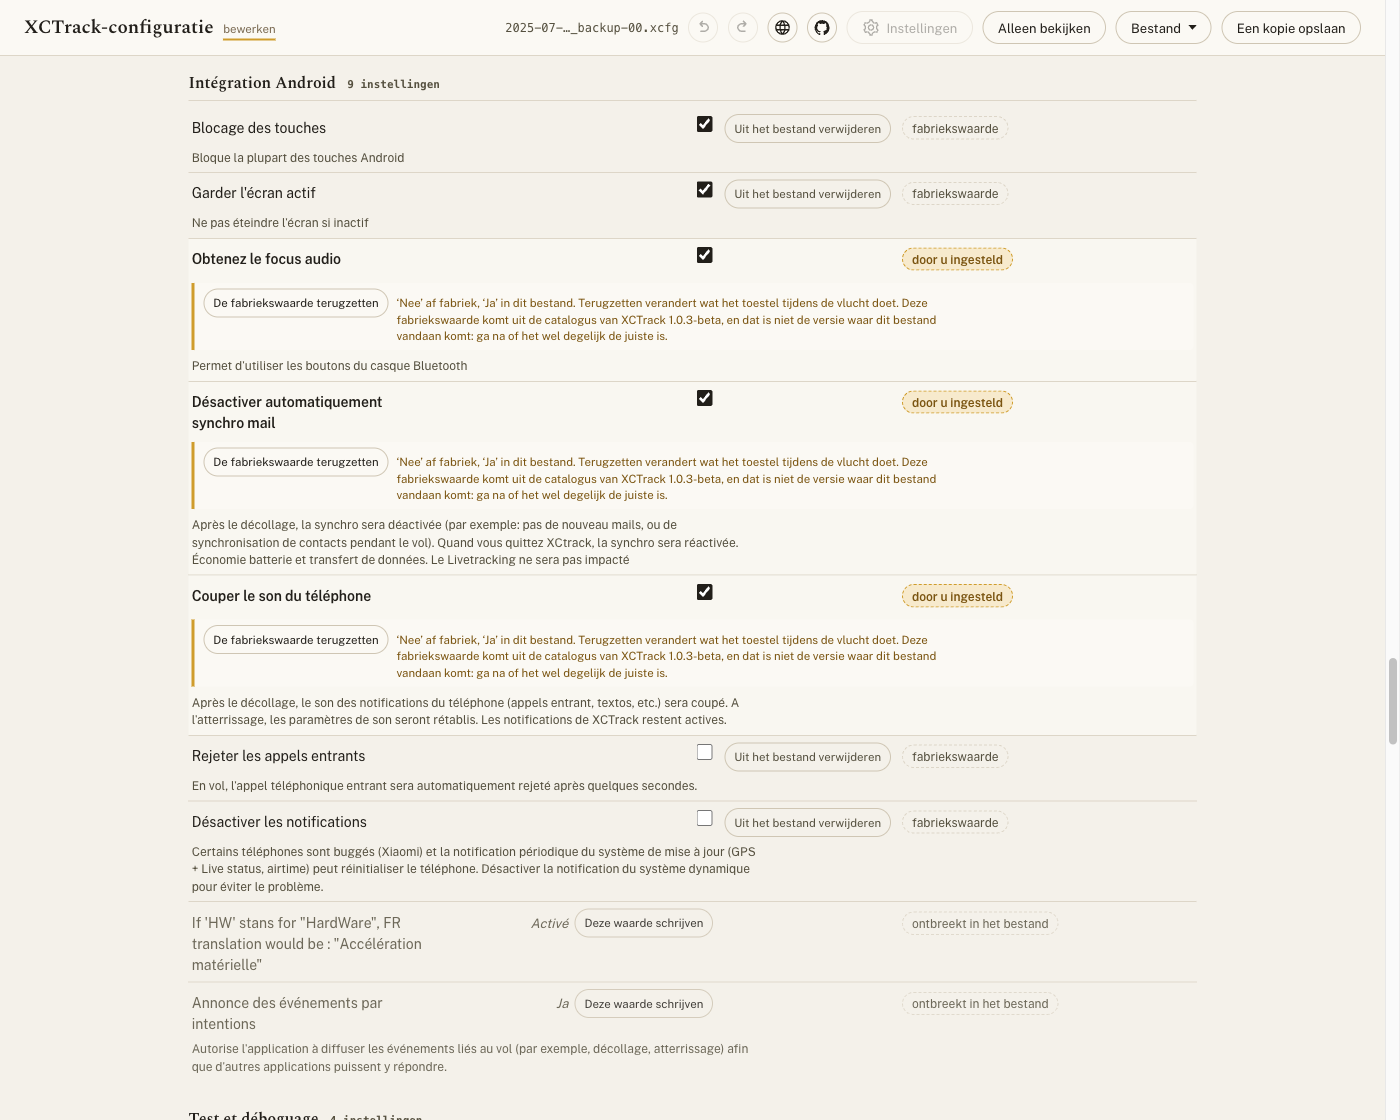
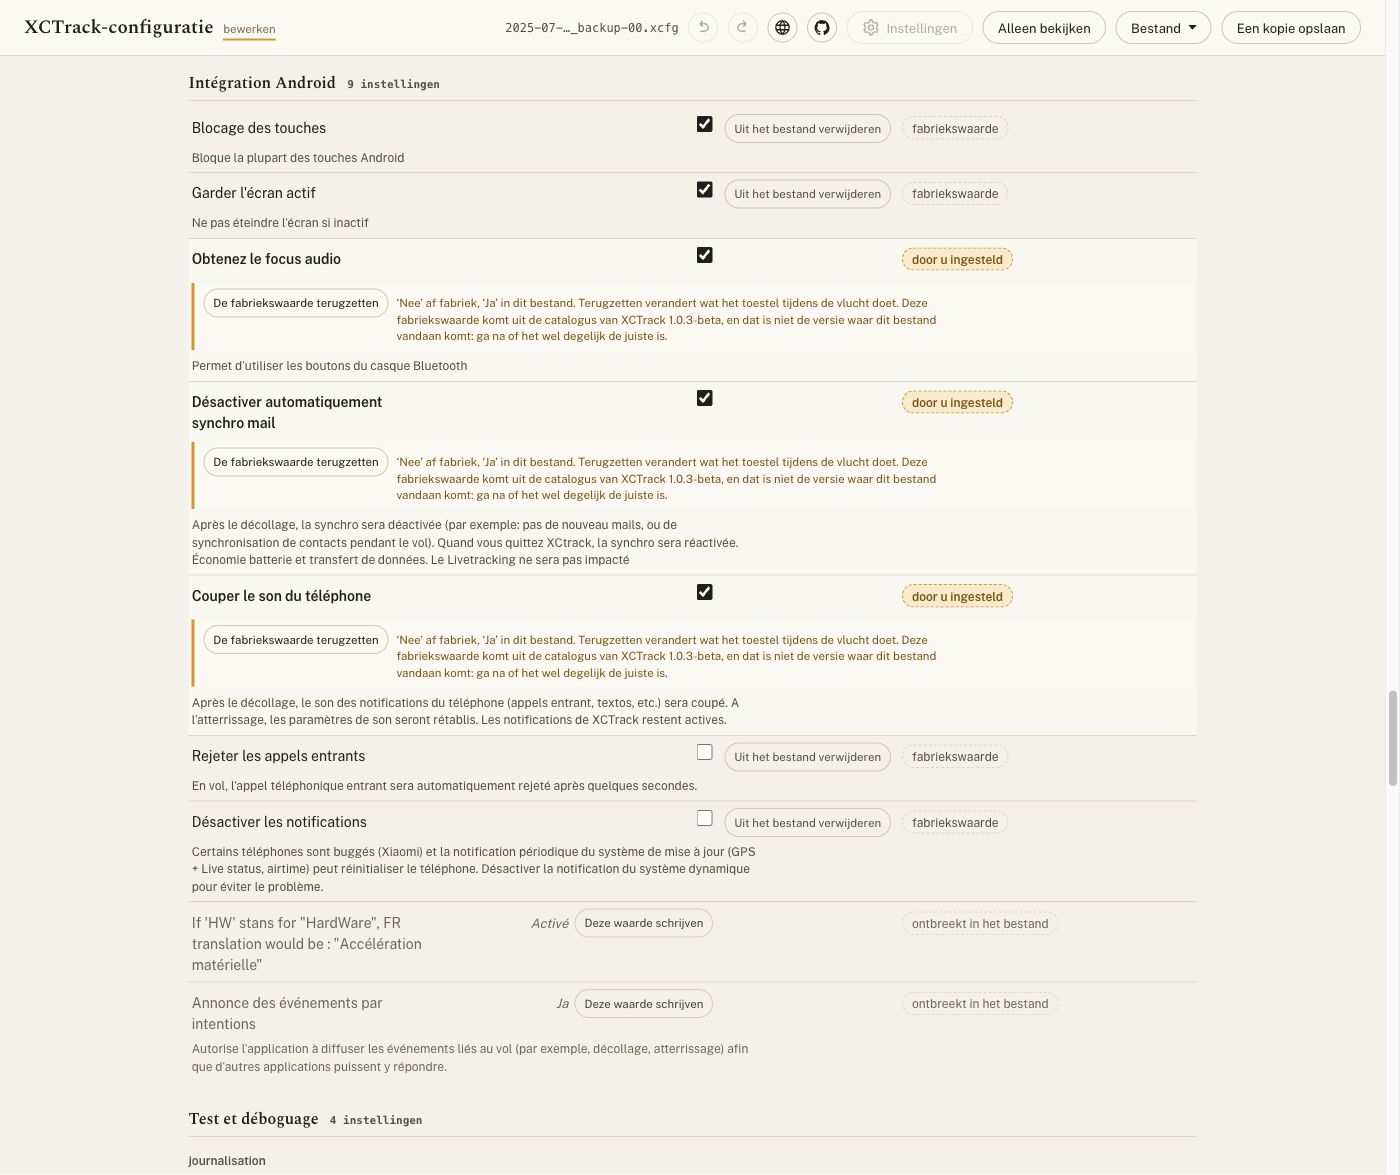
docs(captures): le cadre doit dégager le titre suivant, pas le bloc — le néerlandais le prouve
Un pilote d'essai a vu, sur `reglages-generaux.nl.png`, « Test et déboguage ·
4 instellingen » tranché à mi-glyphe par le bord bas. La mesure du matin, qui
avait rallongé le cadre de 1060 à 1120 points, était incomplète : elle vérifiait
`72 + hauteur du bloc` (72 + 1 010 = 1 082), alors que ce que la recette promet
— « laisser paraître le titre du bloc suivant » — vit 55,4 px plus bas (25,6 px
de blanc entre les blocs, puis un titre de 29,8 px). Le bon calcul est
`72 + (bas du titre suivant − haut du bloc)`.

Remesuré, haut du bloc calé à 72, largeur 1400, mode édition :

              bas du bloc   titre suivant
  fr / es        1 029,1    1 055,0–1 084,8
  en             1 066,1    1 091,9–1 121,7
  de             1 066,1    1 091,6–1 121,4
  nl             1 082,0    1 107,5–1 137,3

À 1120, le bord bas néerlandais tombe DANS les glyphes, qui descendent jusqu'à
1 131,5. Le néerlandais passe donc à 1400 × 1175 — exception mesurée, comme
l'allemand de `panneau-gadget` —, ce qui pose son bord bas 5,3 px sous la ligne
de catégorie « journalisation », le même bord bas qu'en français.

UNE SEULE IMAGE REFAITE. L'anglais et l'allemand passent : leurs glyphes
s'arrêtent à 1 115,9 et 1 115,6, seul le filet de 1 px sous le titre est rasé,
et le titre reste entièrement lisible — c'est le critère de la recette.
Le français et l'espagnol ont 35 px de marge.

L'ÉCRAN FRANÇAIS DANS LES QUATRE IMAGES TRADUITES N'EST PAS UN DÉFAUT, et ce
[…]

diff --git a/README.md b/README.md
@@ -445,7 +445,8 @@ de langue se voient le mieux : ce fichier-ci déclare le français, donc les nom
 réglages restent français dans les cinq captures — seule notre prose change.*
 
 <!--
-  REFAIRE CETTE CAPTURE — captures/reglages-generaux.<langue>.png (1400 × 1120)
+  REFAIRE CETTE CAPTURE — captures/reglages-generaux.<langue>.png
+  (1400 × 1120 — NÉERLANDAIS : 1400 × 1175, exception mesurée, voir « Cadrage »)
 
   DETTE PAYÉE le 2026-08-22 : les cinq images montraient des boutons « Retirer », qui
   disent maintenant « Retirer du fichier » — « Remove from the file », « Aus der Datei
@@ -509,7 +510,22 @@ réglages restent français dans les cinq captures — seule notre prose change.
                « Modifier les réglages », enfin faire défiler jusqu'à « Intégration
                Android » et caler le haut du bloc à 72 px du haut de la fenêtre — soit
                16 px sous la barre de tête collante, qui mesure 56 px.
+  Pièges ..... 1. ÔTER LE FOCUS AVANT DE DÉCLENCHER. La reprise néerlandaise du
+                  2026-08-22 a d'abord donné une image qui ne différait de la
+                  précédente QUE par un halo bleu autour du globe : fermer la boîte des
+                  langues rend le focus au bouton qui l'a ouverte. `blur()` sur
+                  l'élément actif, puis vérifier `document.activeElement`.
+               2. SERVIR UN EXPORT FIGÉ DE HEAD (`git archive HEAD | tar -x -C …`, puis
+                  un lien vers `node_modules`) plutôt que l'arbre de travail : d'autres
+                  chantiers ouvrent la feuille de style et les catalogues, et une
+                  capture prise sur l'arbre vivant fige un travail à mi-course.
+               3. Le navigateur n'isole pas les onglets entre agents : vérifier
+                  `location.href` EN TÊTE DE CHAQUE SCRIPT et refuser d'agir s'il ne
+                  porte pas le port qu'on a soi-même lancé. Le 2026-08-22, un autre
+                  onglet a pris la main deux fois en cours de mesure.
   Cadrage .... viewport de 1400 × 1120 points CSS, émulation comme ci-dessus.
+               NÉERLANDAIS : 1400 × 1175. Exception mesurée, comme l'allemand de
+               `panneau-gadget` — voir « CADRAGE NÉERLANDAIS » plus bas.
 
                CADRAGE CORRIGÉ le 2026-08-22 : 1400 × 1060 → 1400 × 1120, et la phrase
                qui suivait est devenue fausse le même jour. Elle disait « le bloc fait
@@ -528,6 +544,53 @@ réglages restent français dans les cinq captures — seule notre prose change.
                1120 points suffisent aux cinq (72 + 1 010 = 1 082) et laissent paraître
                le titre du bloc suivant, « Test et déboguage », ce qui dit au lecteur que
                la liste continue.
+
+               CADRAGE NÉERLANDAIS, le 2026-08-22 en fin de journée : 1120 → 1175 pour
+               CETTE LANGUE SEULE. Le calcul ci-dessus est incomplet, et un pilote
+               d'essai l'a vu avant nous : « Test et déboguage · 4 instellingen » est
+               tranché à mi-glyphe par le bord bas de l'image néerlandaise.
+
+               ⚠ LE CADRE NE DOIT PAS DÉGAGER LE BLOC, IL DOIT DÉGAGER LE TITRE SUIVANT.
+               `72 + hauteur du bloc` ne mesure que ce qu'on quitte. Ce que la recette
+               promet — « laisser paraître le titre du bloc suivant » — vit 55,4 px plus
+               bas : 25,6 px de blanc entre les deux blocs, puis un titre de 29,8 px
+               (24 px de glyphes, 4,8 px de talon, 1 px de filet). Le bon calcul est donc
+               `72 + (bas du titre suivant − haut du bloc)`. Remesuré, haut du bloc calé
+               à 72, largeur 1400, mode édition :
+
+                                        bas du bloc   titre suivant   « journalisation »
+                   fr / es                 1 029,1    1 055,0–1 084,8   1 099,1–1 117,1
+                   en                      1 066,1    1 091,9–1 121,7   1 136,1–1 154,1
+                   de                      1 066,1    1 091,6–1 121,4   1 135,8–1 153,8
+                   nl                      1 082,0    1 107,5–1 137,3   1 151,7–1 169,7
+
+               À 1120, le bord bas néerlandais tombe DANS les glyphes du titre, qui
+               descendent jusqu'à 1 131,5. L'anglais et l'allemand, eux, PASSENT : leurs
+               glyphes s'arrêtent à 1 115,9 et 1 115,6 ; seul le filet de 1 px sous le
+               titre est rasé (1,7 et 1,4 px manquants). Le titre y reste entièrement
+               lisible, c'est le critère de la recette — CES DEUX IMAGES N'ONT PAS ÉTÉ
+               REFAITES, et le contrôle systématique des 24 captures traduites ne les
+               avait pas relevées non plus.
+
+               1175 pose le bord bas 5,3 px sous la ligne de catégorie « journalisation »
+               (1 169,7) : le même bord bas qu'en français, qui s'arrête 2,9 px sous la
+               même ligne. Vérifié sur l'image reprise : au-dessus de 1120, elle est
+               IDENTIQUE À L'OCTET PRÈS à la précédente, hors les 612 pixels de
+               l'ascenseur, qui se raccourcit quand la fenêtre grandit. Ce n'est donc
+               bien qu'une question de cadre : rien du rendu n'a changé.
+
+               ⚠ AUCUNE LIGNE DE CET ÉCRAN N'EXPLIQUE POURQUOI LES NOMS RESTENT FRANÇAIS
+               — ne pas chercher à la ramener dans le cadre, elle n'existe pas ici. Le
+               même pilote d'essai a cru que le cadrage était « descendu au-delà » de la
+               mention « Libellés de XCTrack : fr (déclaré par le fichier) ». Vérifié :
+               cette mention est celle du bandeau de faits de la VUE D'ENSEMBLE
+               (`metaStrip`, `src/ui/main.ts`) et de la boîte des langues ; sur les
+               8 800 px de la page « Réglages généraux », le mot « langue » n'apparaît
+               pas une seule fois. Aucun cadrage ne peut donc la montrer. C'est la
+               LÉGENDE qui porte l'explication — elle la porte trois fois, dans les cinq
+               README : le chapeau de « En images », la légende sous l'image, et le
+               paragraphe des deux axes de langue. Si l'on veut mieux, c'est une ligne à
+               AJOUTER à l'écran, pas un cadre à remonter.
 
                ⚠ L'ALLEMAND NE DÉBORDE TOUJOURS PAS PLUS QUE LES AUTRES sur cet écran,
                contrairement à deux des sept : il tient dans le cadre commun. C'est le
